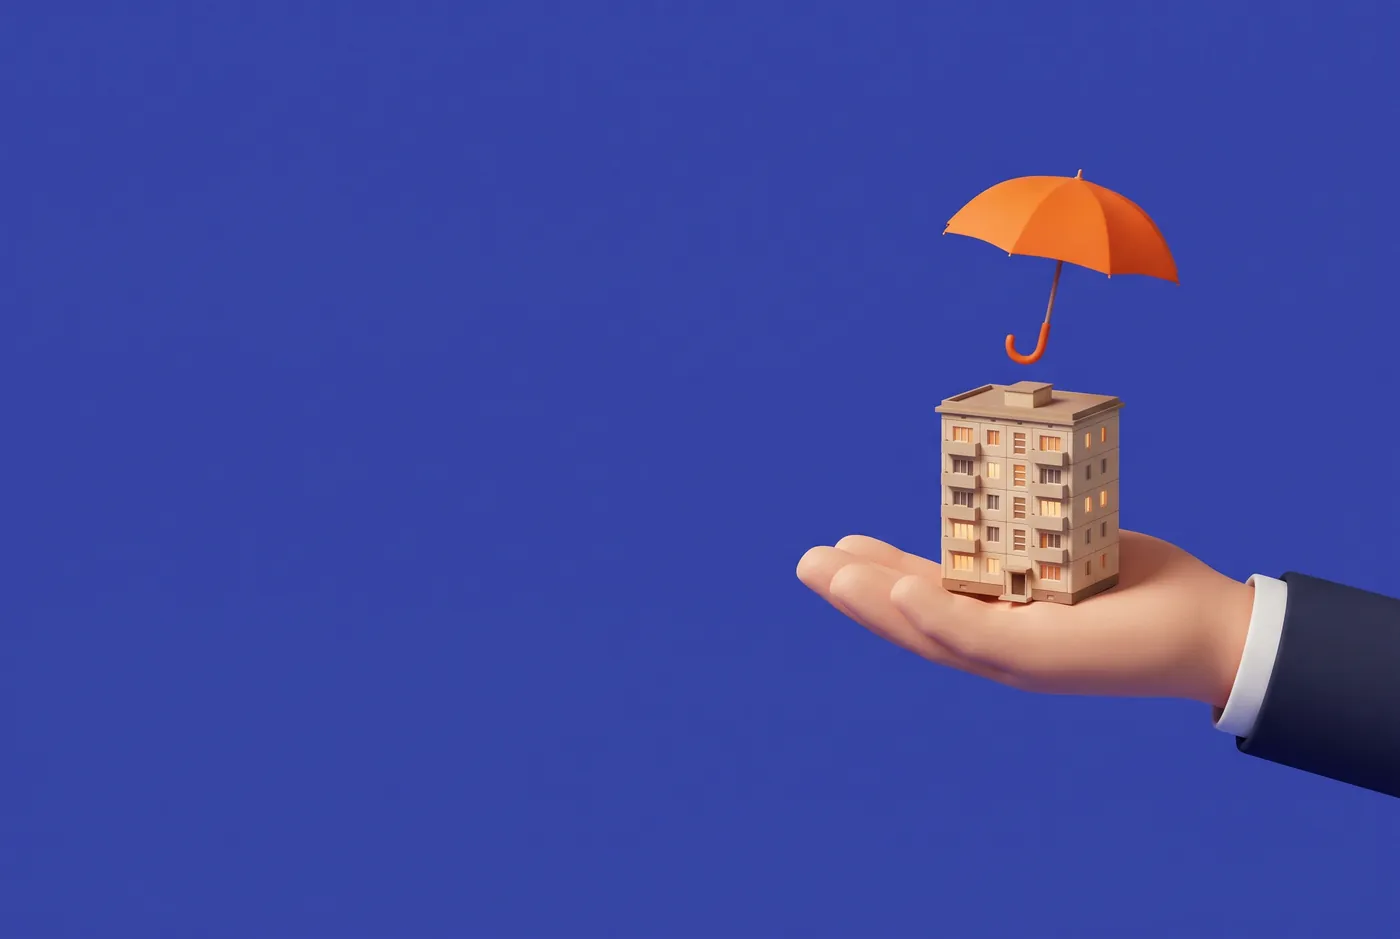
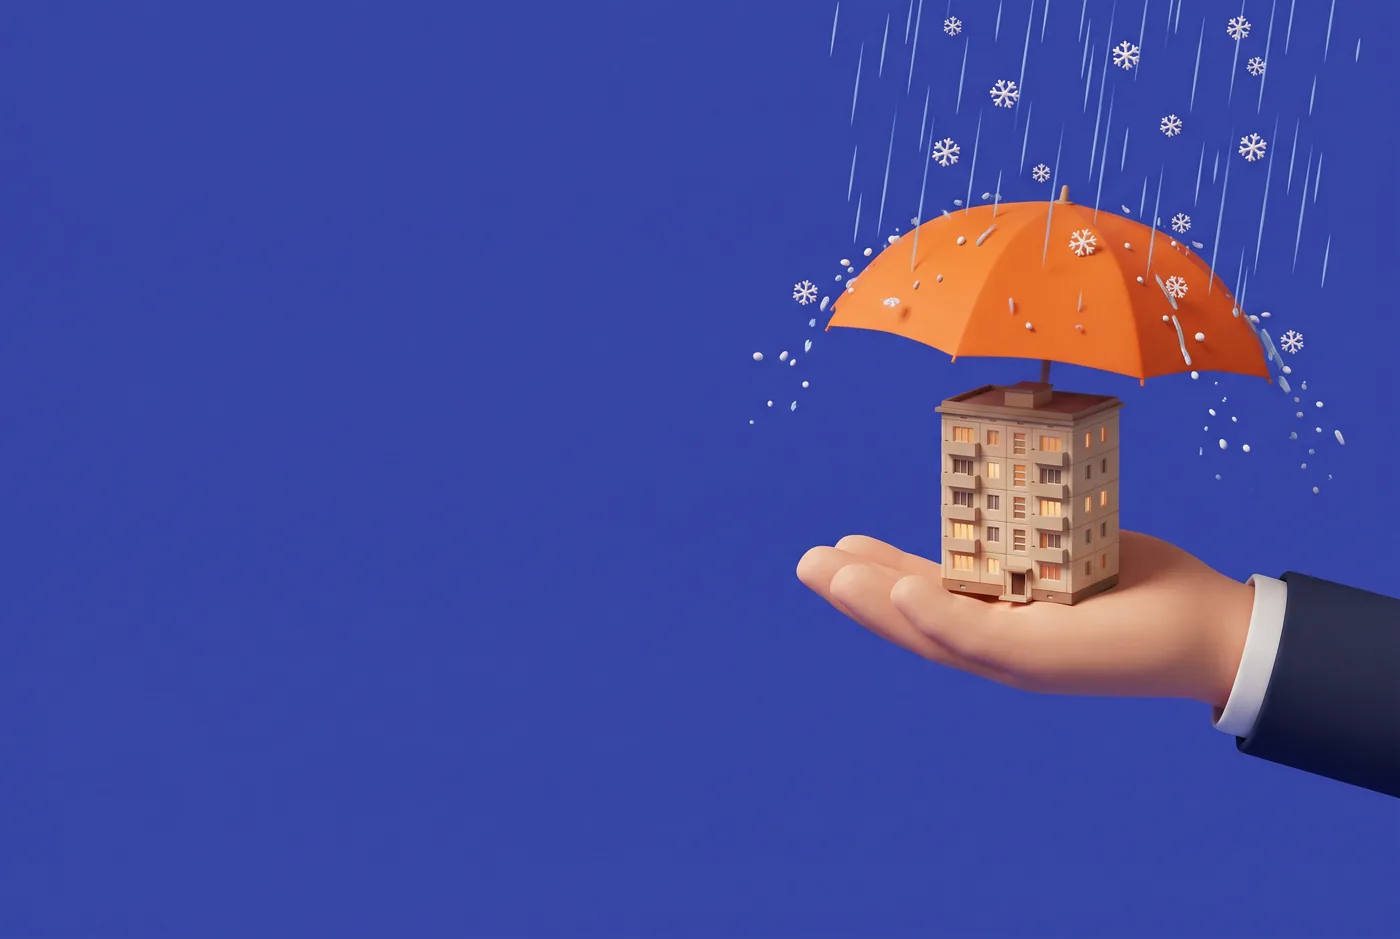
Обновил файлы сайта

diff --git a/css/style.css b/css/style.css
@@ -290,6 +290,8 @@ a:hover {
 
 .brand-text {
   display: grid;
+  justify-items: center;
+  text-align: center;
   line-height: 1.15;
 }
 
